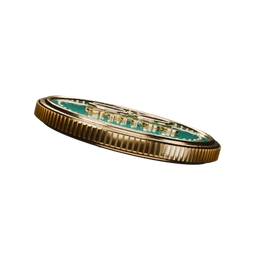
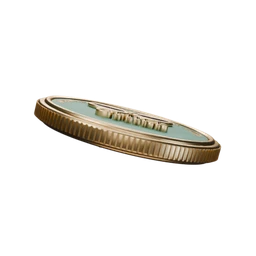
Trackdown v2: bronze coin render, ruler and dock fixes, README design notes and art credits

Changed region(s): [[0.1562, 0.375, 0.875, 0.6562]]

diff --git a/web/trackdown/src/styles.css b/web/trackdown/src/styles.css
@@ -372,6 +372,7 @@ a { color: inherit; }
 .verdict .vtag { font: 500 15px/1 var(--caps); letter-spacing: 0.14em; color: var(--ink); }
 .verdict .vs { margin: 14px 0 0; font: 400 17px/1.45 var(--serif); color: var(--ink); }
 .verdict .vs::first-letter { font: 400 46px/0.8 var(--caps); float: left; color: var(--vc); margin: 6px 8px 0 0; }
+.verdict.pending .vs::first-letter { font: inherit; float: none; margin: 0; color: inherit; }
 .verdict .vcoin { position: absolute; right: -8px; top: 4px; width: 132px; height: 132px; background-size: cover; filter: drop-shadow(0 12px 14px rgba(60, 40, 10, 0.35)); }
 .scale { margin-top: 18px; }
 .scale .row { display: flex; justify-content: space-between; align-items: baseline; font: 400 11px/1 var(--mono); color: var(--ink-3); letter-spacing: 0.06em; text-transform: uppercase; margin-bottom: 8px; }

diff --git a/web/trackdown/src/ui/panel.ts b/web/trackdown/src/ui/panel.ts
@@ -54,7 +54,7 @@ export class Panel {
   }
 
   private pendingHtml() {
-    return `<div class="verdict" style="--vc:var(--ink-3)"><div class="entry-label">Attribution pending</div>
+    return `<div class="verdict pending" style="--vc:var(--ink-3)"><div class="entry-label">Attribution pending</div>
       <div class="vw" style="font-size:52px;color:var(--ink-2)">Examining the receipts…</div>
       <p class="vs" style="color:var(--ink-2)">We walk back one copy at a time to the earliest version we can find, then look at how it spread.</p></div>`;
   }

diff --git a/web/trackdown/blender/coin.py b/web/trackdown/blender/coin.py
@@ -18,7 +18,7 @@ RES = int(sys.argv[2]) if len(sys.argv) > 2 else 400
 SAMPLES = int(sys.argv[3]) if len(sys.argv) > 3 else 48
 FRAMES = int(sys.argv[4]) if len(sys.argv) > 4 else 48
 HERE = os.path.dirname(os.path.abspath(__file__))
-FONT = os.path.join(HERE, "fonts", "ArchivoBlack.ttf")  # OFL; download from google/fonts (ofl/archivoblack)
+FONT = os.path.join(HERE, "fonts", "Cinzel.ttf")  # OFL, Roman inscriptional capitals; download from google/fonts (ofl/cinzel)
 
 bpy.ops.wm.read_factory_settings(use_empty=True)
 scene = bpy.context.scene
@@ -77,10 +77,59 @@ def mat_emit(name, strength=8.0, color=(1, 1, 1)):
     return m
 
 
-GOLD = mat_metal("brass", (1.0, 0.70, 0.32), 0.18)
-GOLD_DARK = mat_metal("brass_dark", (0.75, 0.48, 0.20), 0.32)
-RED = mat_enamel("enamel_red", (0.85, 0.06, 0.10))
-MINT = mat_enamel("enamel_mint", (0.05, 0.62, 0.48))
+def mat_aged(name, color, rough=0.32):
+    """Struck metal: darker in the crevices (AO), scuffed roughness."""
+    m = bpy.data.materials.new(name)
+    m.use_nodes = True
+    nt = m.node_tree
+    b = nt.nodes["Principled BSDF"]
+    b.inputs["Metallic"].default_value = 1.0
+    ao = nt.nodes.new("ShaderNodeAmbientOcclusion")
+    ao.inputs["Distance"].default_value = 0.06
+    mix = nt.nodes.new("ShaderNodeMix")
+    mix.data_type = "RGBA"
+    mix.inputs[6].default_value = (color[0] * 0.28, color[1] * 0.22, color[2] * 0.16, 1)
+    mix.inputs[7].default_value = (*color, 1)
+    nt.links.new(ao.outputs["AO"], mix.inputs[0])
+    nt.links.new(mix.outputs[2], b.inputs["Base Color"])
+    noise = nt.nodes.new("ShaderNodeTexNoise")
+    noise.inputs["Scale"].default_value = 60.0
+    ramp = nt.nodes.new("ShaderNodeMapRange")
+    ramp.inputs["To Min"].default_value = rough - 0.1
+    ramp.inputs["To Max"].default_value = rough + 0.15
+    nt.links.new(noise.outputs["Fac"], ramp.inputs["Value"])
+    nt.links.new(ramp.outputs["Result"], b.inputs["Roughness"])
+    return m
+
+
+def mat_lacquer(name, color, rough=0.5, var=0.25):
+    """Hand-applied pigment in the field: cinnabar or verdigris, mottled."""
+    m = bpy.data.materials.new(name)
+    m.use_nodes = True
+    nt = m.node_tree
+    b = nt.nodes["Principled BSDF"]
+    b.inputs["Metallic"].default_value = 0.0
+    b.inputs["Roughness"].default_value = rough
+    noise = nt.nodes.new("ShaderNodeTexNoise")
+    noise.inputs["Scale"].default_value = 7.0
+    noise.inputs["Detail"].default_value = 8.0
+    mix = nt.nodes.new("ShaderNodeMix")
+    mix.data_type = "RGBA"
+    mix.inputs[6].default_value = (color[0] * (1 - var), color[1] * (1 - var), color[2] * (1 - var), 1)
+    mix.inputs[7].default_value = (min(1, color[0] * (1 + var)), min(1, color[1] * (1 + var)), min(1, color[2] * (1 + var)), 1)
+    nt.links.new(noise.outputs["Fac"], mix.inputs[0])
+    nt.links.new(mix.outputs[2], b.inputs["Base Color"])
+    bump = nt.nodes.new("ShaderNodeBump")
+    bump.inputs["Strength"].default_value = 0.04
+    nt.links.new(noise.outputs["Fac"], bump.inputs["Height"])
+    nt.links.new(bump.outputs["Normal"], b.inputs["Normal"])
+    return m
+
+
+GOLD = mat_aged("gold", (0.95, 0.70, 0.36), 0.3)
+GOLD_DARK = mat_aged("gold_dark", (0.72, 0.5, 0.24), 0.4)
+RED = mat_lacquer("cinnabar", (0.62, 0.08, 0.04), 0.42, 0.3)
+MINT = mat_lacquer("verdigris", (0.16, 0.45, 0.36), 0.62, 0.35)
 INK = mat_enamel("enamel_ink", (0.02, 0.02, 0.03), 0.2)
 
 root = bpy.data.objects.new("coin_root", None)
@@ -144,16 +193,43 @@ for side in (-1, 1):
 front_field = cyl("field_front", R * 0.86, 0.02, -D / 2 - 0.002, RED, bevel=0.006)
 back_field = cyl("field_back", R * 0.86, 0.02, D / 2 + 0.002, MINT, bevel=0.006)
 
-# dotted inner ring (little studs) on each face
-for side, field_y in ((-1, -D / 2 - 0.012), (1, D / 2 + 0.012)):
-    for i in range(48):
-        a = 2 * math.pi * i / 48
-        bpy.ops.mesh.primitive_uv_sphere_add(radius=0.017, segments=10, ring_count=6, location=(math.cos(a) * R * 0.78, field_y, math.sin(a) * R * 0.78))
-        s = bpy.context.active_object
-        s.scale = (1, 0.5, 1)
-        s.data.materials.append(GOLD)
-        bpy.ops.object.shade_smooth()
-        s.parent = root
+# inscription around the rim on each face, Roman capitals bent along a circle
+def ring_text(body_text, y, flip):
+    bpy.ops.curve.primitive_bezier_circle_add(radius=0.735, location=(0, 0, 0))
+    circ = bpy.context.active_object
+    bpy.ops.object.text_add(location=(0, 0, 0))
+    t = bpy.context.active_object
+    t.data.body = body_text
+    if os.path.exists(FONT):
+        t.data.font = bpy.data.fonts.load(FONT)
+    t.data.size = 0.13
+    t.data.space_character = 1.05
+    t.data.bevel_depth = 0.003
+    t.data.align_x = "CENTER"
+    t.data.extrude = 0.008
+    t.data.materials.append(GOLD)
+    t.data.follow_curve = circ
+    bpy.context.view_layer.update()
+    bpy.ops.object.select_all(action="DESELECT")
+    t.select_set(True)
+    bpy.context.view_layer.objects.active = t
+    bpy.ops.object.convert(target="MESH")
+    t = bpy.context.active_object
+    circ.hide_render = True
+    # text follows the circle in XY; stand it up onto the coin face (XZ plane)
+    t.rotation_euler = (math.pi / 2, 0, 0)
+    t.location = (0, y, 0)
+    holder = bpy.data.objects.new("ring_holder", None)
+    scene.collection.objects.link(holder)
+    t.parent = holder
+    if flip:
+        holder.rotation_euler = (math.pi, 0, 0)
+    holder.parent = root
+    return holder
+
+
+ring_text("SHILL OR CHILL · FACTA NON VERBA · MMXXVI ·", -D / 2 - 0.006, False)
+ring_text("SHILL OR CHILL · FACTA NON VERBA · MMXXVI ·", -D / 2 - 0.006, True)
 
 
 def text_obj(body_text, size, z, y, mat, extrude=0.018):
@@ -166,7 +242,7 @@ def text_obj(body_text, size, z, y, mat, extrude=0.018):
     t.data.align_x = "CENTER"
     t.data.align_y = "CENTER"
     t.data.extrude = extrude
-    t.data.bevel_depth = 0.004
+    t.data.bevel_depth = 0.009
     t.data.bevel_resolution = 2
     t.data.materials.append(mat)
     bpy.ops.object.convert(target="MESH")
@@ -238,14 +314,14 @@ def make_shades(y):
 
 
 # FRONT: flag + SHILL
-front_parts = make_flag(FACE_Y) + [text_obj("SHILL", 0.36, -0.3, FACE_Y, GOLD, 0.03)]
+front_parts = make_flag(FACE_Y) + [text_obj("SHILL", 0.34, -0.3, FACE_Y, GOLD, 0.04)]
 for o in front_parts:
     o.parent = root
 
 # BACK: shades + CHILL, built as if on the front, then flipped 180deg about X onto the back
 back_group = bpy.data.objects.new("back_group", None)
 scene.collection.objects.link(back_group)
-back_parts = make_shades(FACE_Y) + [text_obj("CHILL", 0.36, -0.3, FACE_Y, GOLD, 0.03)]
+back_parts = make_shades(FACE_Y) + [text_obj("CHILL", 0.34, -0.3, FACE_Y, GOLD, 0.04)]
 for o in back_parts:
     o.parent = back_group
 back_group.rotation_euler = (math.pi, 0, 0)

diff --git a/web/trackdown/README.md b/web/trackdown/README.md
@@ -12,7 +12,25 @@ API_ORIGIN=http://127.0.0.1:8020 npm run dev
 npm run build                       # static files in dist/ (relative paths, works under any prefix)
 ```
 
-URL flags: `?case=tap-water|bridge|flood|glow` picks an archive case, `?static` skips the intro run.
+URL flags: `?case=tap-water|rhinoceros|bridge|flood|glow` picks an archive case, `?static` skips the intro run.
+
+## Look
+
+Junction 2026's theme is *European Tech Renaissance*, so the trackdown is drawn as a Renaissance
+provenance study (how art historians trace a work back to the original and spot copies), set
+inside Junction's black chrome.
+
+- Canvas: vellum with a ruled codex grid. Posts are paper folios with catalogue numbers; cluster
+  members are slips with a cinnabar margin. Links are ink lines drawn in by a nib; compressed
+  stretches of time are hatched bands. Clusters are engraved with hatching and get a figure caption.
+- Pigments, not neon: cinnabar = Shill, verdigris = Chill, slate = Can't tell, gold leaf = the
+  original, sienna = altered copy, lapis = found by search.
+- Type: EB Garamond (reading), Cinzel (inscriptions, numerals), IBM Plex Mono (Junction's `//` labels,
+  data, the trace terminal).
+- Chrome: top bar, dock, modal and trace log in Junction black with chamfered corners; the splash and
+  the modal use a pixel-sorted Botticelli, like the Junction site's glitched classical hero.
+- Motion: the nib draws each link, a compass circle is struck around each find, rejected candidates
+  are pencilled in and struck through, the burst's engraving fills in, the bronze coin is tossed.
 
 ## What's on screen
 
@@ -45,6 +63,10 @@ Keys: `N` trace a post · `Space` play/pause · `F` fit · `T` timeline/web · `
 - **Archive cases** (`src/data/cases.ts`) are simulated: fictional accounts, `.example` domains,
   and every one is badged *Simulated* in the header, the verdict card and the trace console. Their
   numbers come from the simulation, not from `eval/` or `signals/`.
+- **Dürer's Rhinoceros** is real history, written by hand from public sources and badged
+  *Historical record*. It is not scored and was not run through the detector. Its one present-day
+  repost is marked as illustrative. It shows the honesty point: a picture can be wrong without its
+  spread being coordinated.
 - **Live clusters**: when `GET api/clusters` answers, they're listed under "From the monitor" and
   converted by `liveCase()` (`src/data/api.ts`) from the `ClusterDetail` shape in
   `api/schemas.py`. Status, confidence, evidence and source URLs are shown as the API returns
@@ -56,10 +78,18 @@ Keys: `N` trace a post · `Space` play/pause · `F` fit · `T` timeline/web · `
 - Wording: "Shill" labels a cluster's spread. Cards in a cluster are called "In coordinated
   cluster"; no account is ever called a shill.
 
+## Artwork
+
+All public domain, from Wikimedia Commons: Albrecht Dürer, *Rhinocerus* (woodcut, 1515); Sandro
+Botticelli, *The Birth of Venus* (c. 1485; cropped to head and shoulders, pixel-sorted). The
+"copy" plates in the Rhinoceros case are the same woodcut, coarsened, and are captioned as stand-ins.
+The vellum texture is generated.
+
 ## Verdict coin
 
-Rendered in Blender 4.2 (Cycles, CPU) from `blender/coin.py`: brass coin, enamel SHILL face with
-a flag, CHILL face with sunglasses, 48-frame flip packed into `public/coin/coin-sheet.webp` by
+Rendered in Blender 4.2 (Cycles, CPU) from `blender/coin.py`: struck bronze, a cinnabar SHILL
+field with a flag, a verdigris CHILL field with sunglasses, and the legend
+"SHILL OR CHILL · FACTA NON VERBA · MMXXVI" in Cinzel round the rim, 48-frame flip packed into `public/coin/coin-sheet.webp` by
 `blender/pack.py`. Shill lands on frame 0, Chill on frame 24, and "Can't tell (yet)" lands on
 its edge and wobbles. The rail and panel use stills; the abstain still is a motion-blurred,
-still-spinning coin. The font is Archivo Black (OFL).
+still-spinning coin. The font is Cinzel (OFL).
